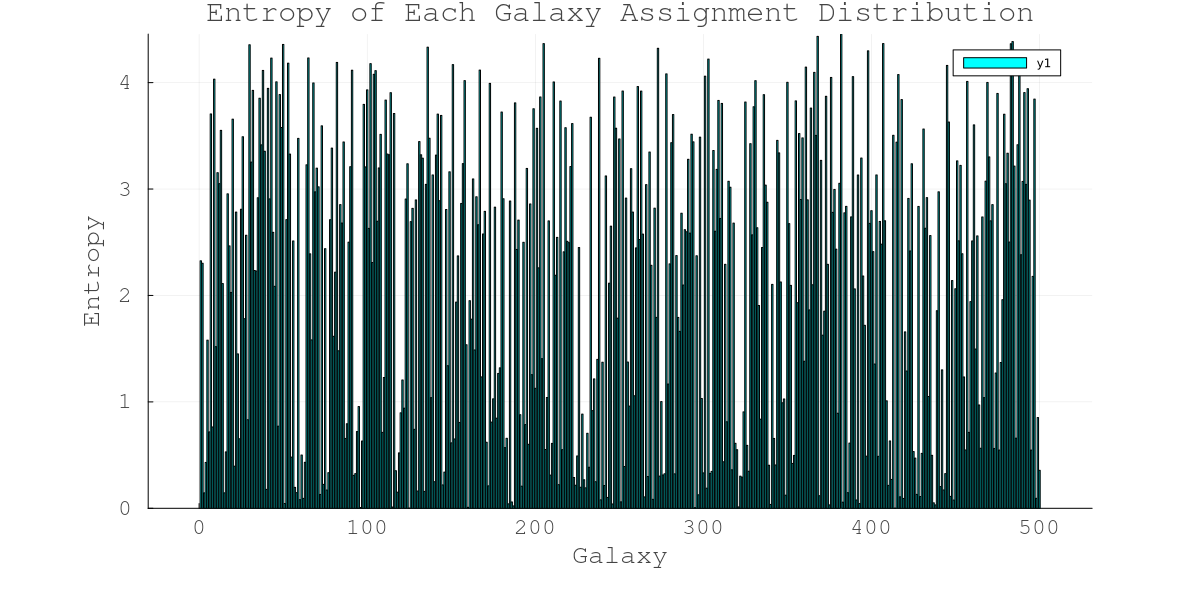
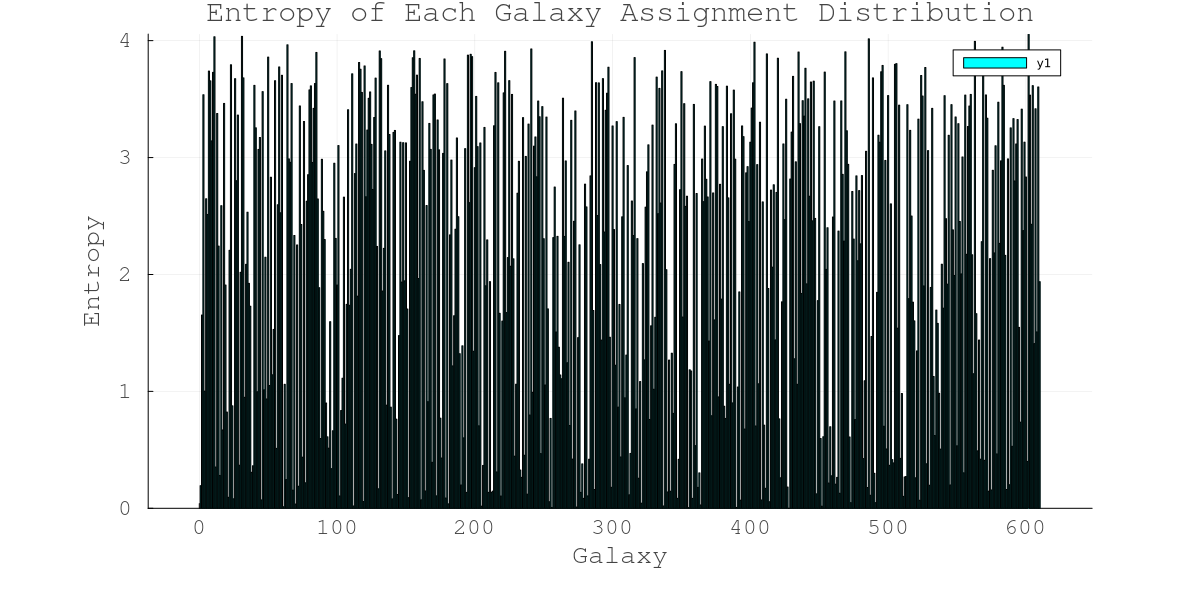
plot upd

diff --git a/benchmarks/xy_hsm.py b/benchmarks/xy_hsm.py
@@ -22,7 +22,7 @@ class PSF_fit:
 
 
 psf_fits = []
-file_names = ['../../cweb_psf/new_revised_shopt/revised_apr_f115w_shopt.fits']
+file_names = ['f115w_shopt_corr.fits']
 
 fits_file_name = file_names[0]
 
@@ -36,10 +36,10 @@ def count_nan_inf(arr):
 
 for i in range(len(f[2].data)):
     try:
-        a_vignet = f[2].data['VIGNET_CROPPED'][i]
+        a_vignet = f[2].data['VIGNET'][i]
         img_vignet = galsim.Image(a_vignet, wcs=galsim.PixelScale(0.03), xmin=0, ymin=0)
         result_vignet = img_vignet.FindAdaptiveMom(guess_sig=1.0)
-        a_psfex = f[2].data['VIGNET_SHOPT_CROPPED'][i]
+        a_psfex = f[2].data['VIGNET_SHOPT'][i]
         img_psfex = galsim.Image(a_psfex, wcs=galsim.PixelScale(0.03), xmin=0, ymin=0)
         result_psfex = img_psfex.FindAdaptiveMom(guess_sig=1)
         s_d, g1_d, g2_d = result_vignet.moments_sigma, result_vignet.observed_shape.g1, result_vignet.observed_shape.g2
